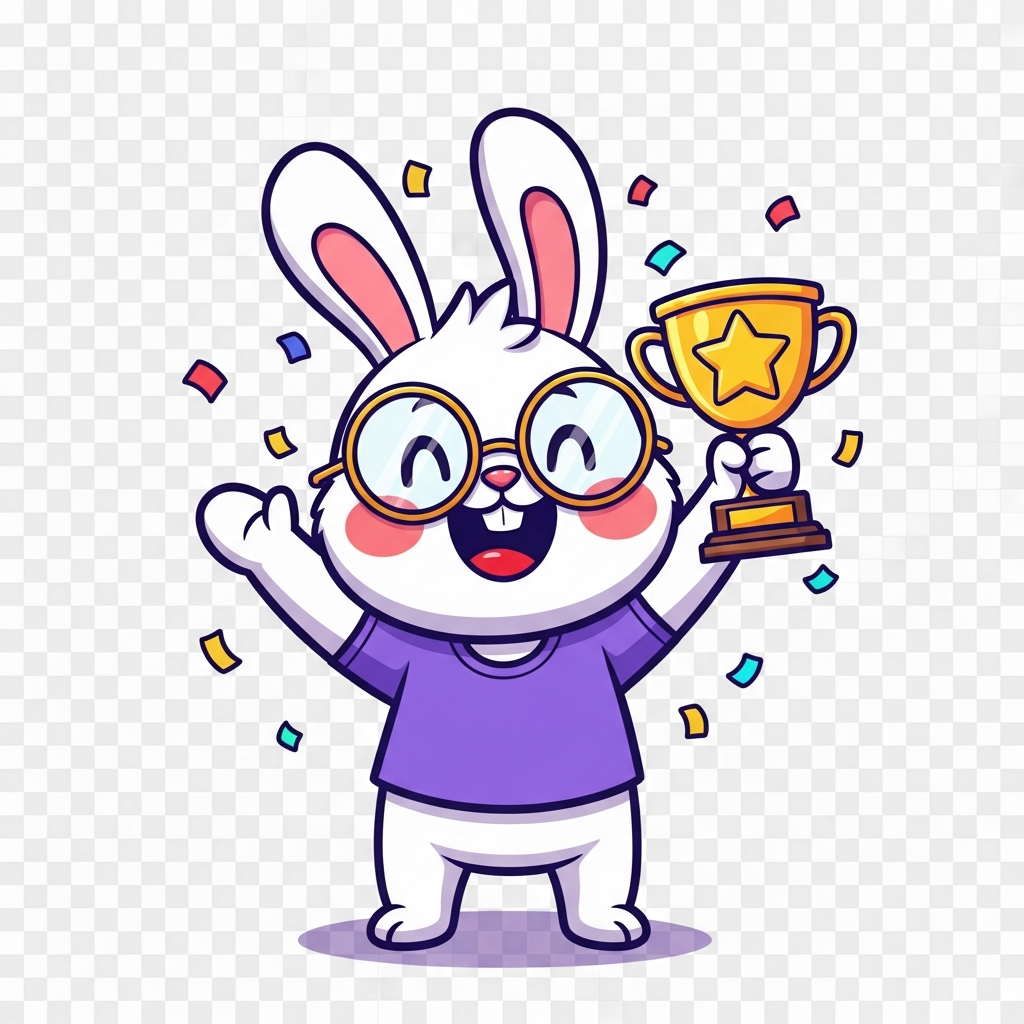
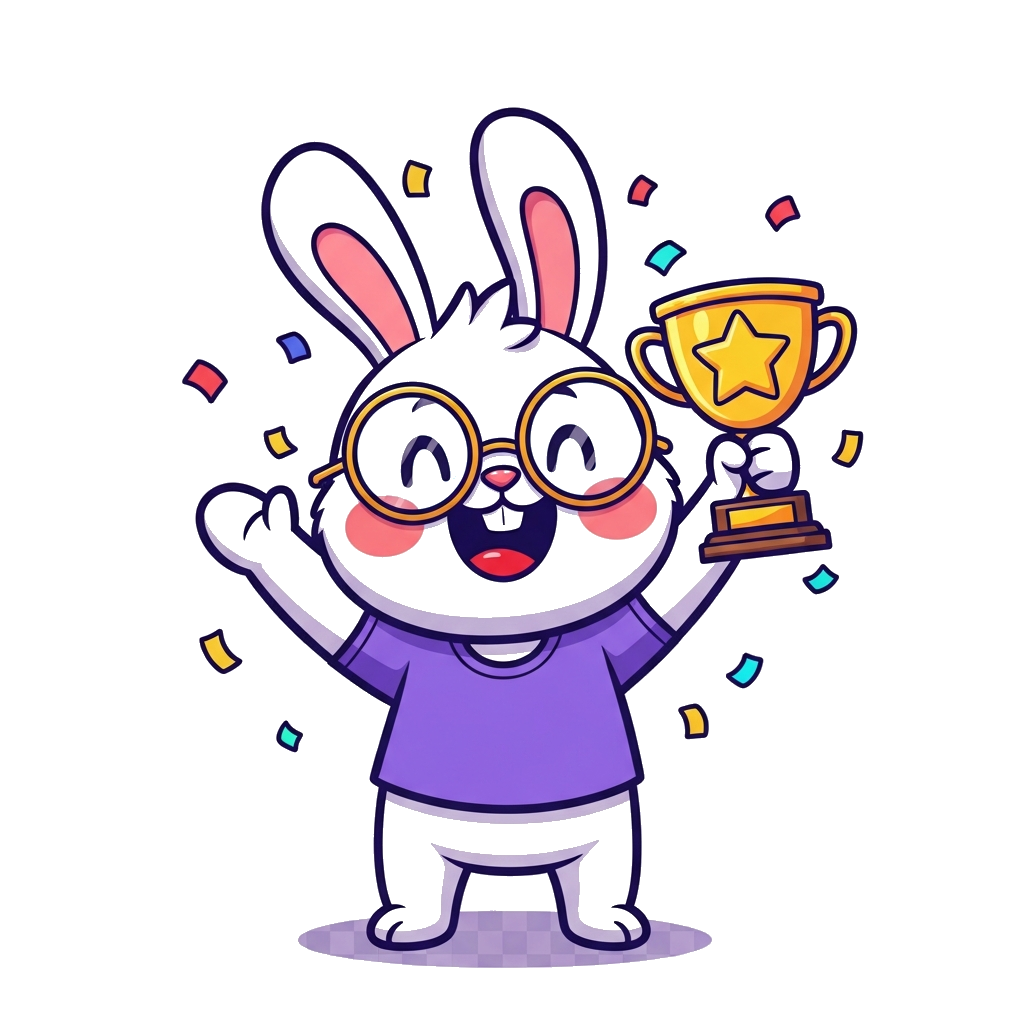
Fix bunny transparent bg + lighten results level badge gradient
Removed white/gray background from celebration bunny PNG.
Lightened the reading level badge gradient (#818cf8 → #c4b5fd)
so the white text pops more.

diff --git a/app/(protected)/assessment/page.tsx b/app/(protected)/assessment/page.tsx
@@ -903,12 +903,12 @@ function AssessmentContent() {
             transition={{ delay: 0.6, type: "spring", bounce: 0.3 }}
           >
             <div
-              className="px-8 py-8 text-white"
-              style={{ background: "linear-gradient(135deg, #6366f1, #8b5cf6, #a78bfa)" }}
+              className="px-8 py-8"
+              style={{ background: "linear-gradient(135deg, #818cf8, #a78bfa, #c4b5fd)" }}
             >
-              <Sparkles className="w-8 h-8 mx-auto mb-3 text-indigo-200" />
-              <p className="text-indigo-200 text-sm font-medium">Your reading level</p>
-              <p className="text-3xl font-extrabold mt-1">{levelName}</p>
+              <Sparkles className="w-8 h-8 mx-auto mb-3 text-white/70" />
+              <p className="text-white/80 text-sm font-medium">Your reading level</p>
+              <p className="text-3xl font-extrabold mt-1 text-white">{levelName}</p>
             </div>
           </motion.div>
 
